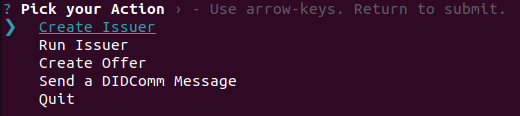
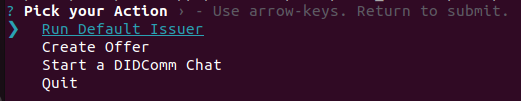
Update readme

diff --git a/Code/README.md b/Code/README.md
@@ -19,16 +19,22 @@ To start the Issuer use the following command and confirm the installation of ts
 ```shell
 npx tsx ./issuerCli.ts
 ```
-The programm gives you an interactive interface to use. One first needs to create an Issuer (for example by using the default values) whith the ability to chose between different issuer-types, run the created issuer instance, and create an offer. This offer can be used by other Clients (Wallets) to receive Credentials. 
-
+The programm gives you an interactive interface to use. 
 ![Issuer Interface](/Code/readmeImages/issuerCliActions.png)
 
-After a successful issuance, you can send messages via the newly created DIDComm channel.
+One first needs to create and run the default Issuer. 
+![Run](/Code/readmeImages/start_issuer.png)
+
+Then you can generate an Out-of-Band Offer-URL.
+![Offer](/Code/readmeImages/offer.png)
+
+Finally, after a credential was successfully issued, a DidComm chat can be started with a chosen client.
+![Chat](/Code/readmeImages/chat.png)
 
 ### Client (Wallet)
 To start the Client use the following command (with the file name of the prefered solution):
 ```shell
 npx tsx ./clientDidToken.ts
 ```
-The programm expects you to enter the previously generated offer (use the url above the QR-code in the Issuer-terminal). Afterwards both parties will go through our extended OID4VC flow and the Client will recieve a Credential as well as having a DIDComm channel now.
+The programm expects you to enter the previously generated offer-url. Afterwards both parties will go through our extended OID4VC flow and the Client will receive a Credential as well as having a DIDComm channel now.
 Any messages send via DIDComm from the Issuer to the Client will be displayed (currently only messages from Issuer to Client are supported)
